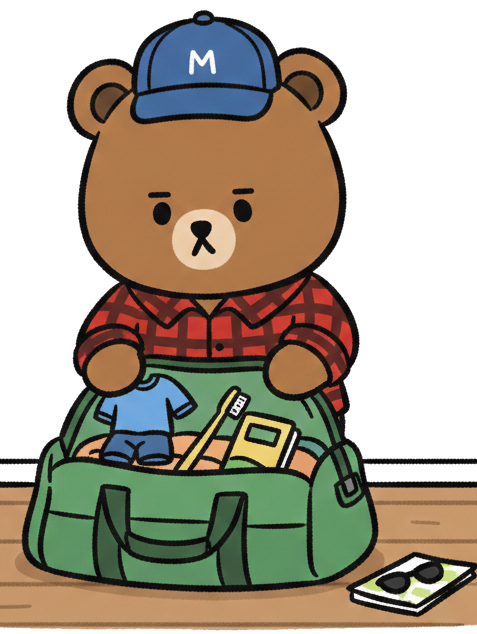
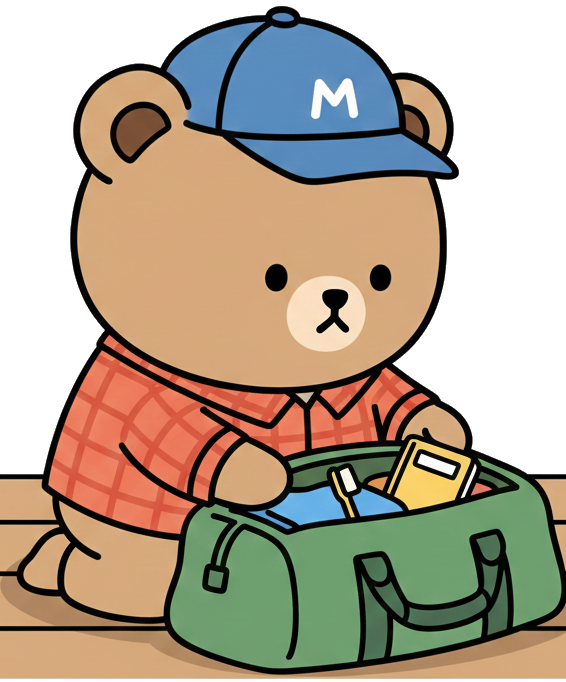
곰돌이 아이콘 추가

diff --git a/src/screens/home/components/TimerSection.tsx b/src/screens/home/components/TimerSection.tsx
@@ -38,7 +38,7 @@ function bearSourceBySeconds(seconds: number) {
     return require("../../../../assets/bears/bear_busback2.png");
   }
   if (seconds <= 120) {
-    return require("../../../../assets/bears/bear_go2.png");
+    return require("../../../../assets/bears/bear_go3.png");
   }
   if (seconds <= 300) {
     return require("../../../../assets/bears/bear_hurry.png");
@@ -95,7 +95,7 @@ export default function TimerSection({
                     : seconds <= 600
                       ? "이제 소지품을 챙겨보세요!"
                       : seconds <= 900
-                        ? "슬슬 옷을 입을 떄가 된거 같아요!"
+                        ? "옷을 입어볼까요?"
                         : seconds <= 1800
                           ? "이제 씻어볼까요?"
                           : "아직은 마음 놓으셔도 되요"
